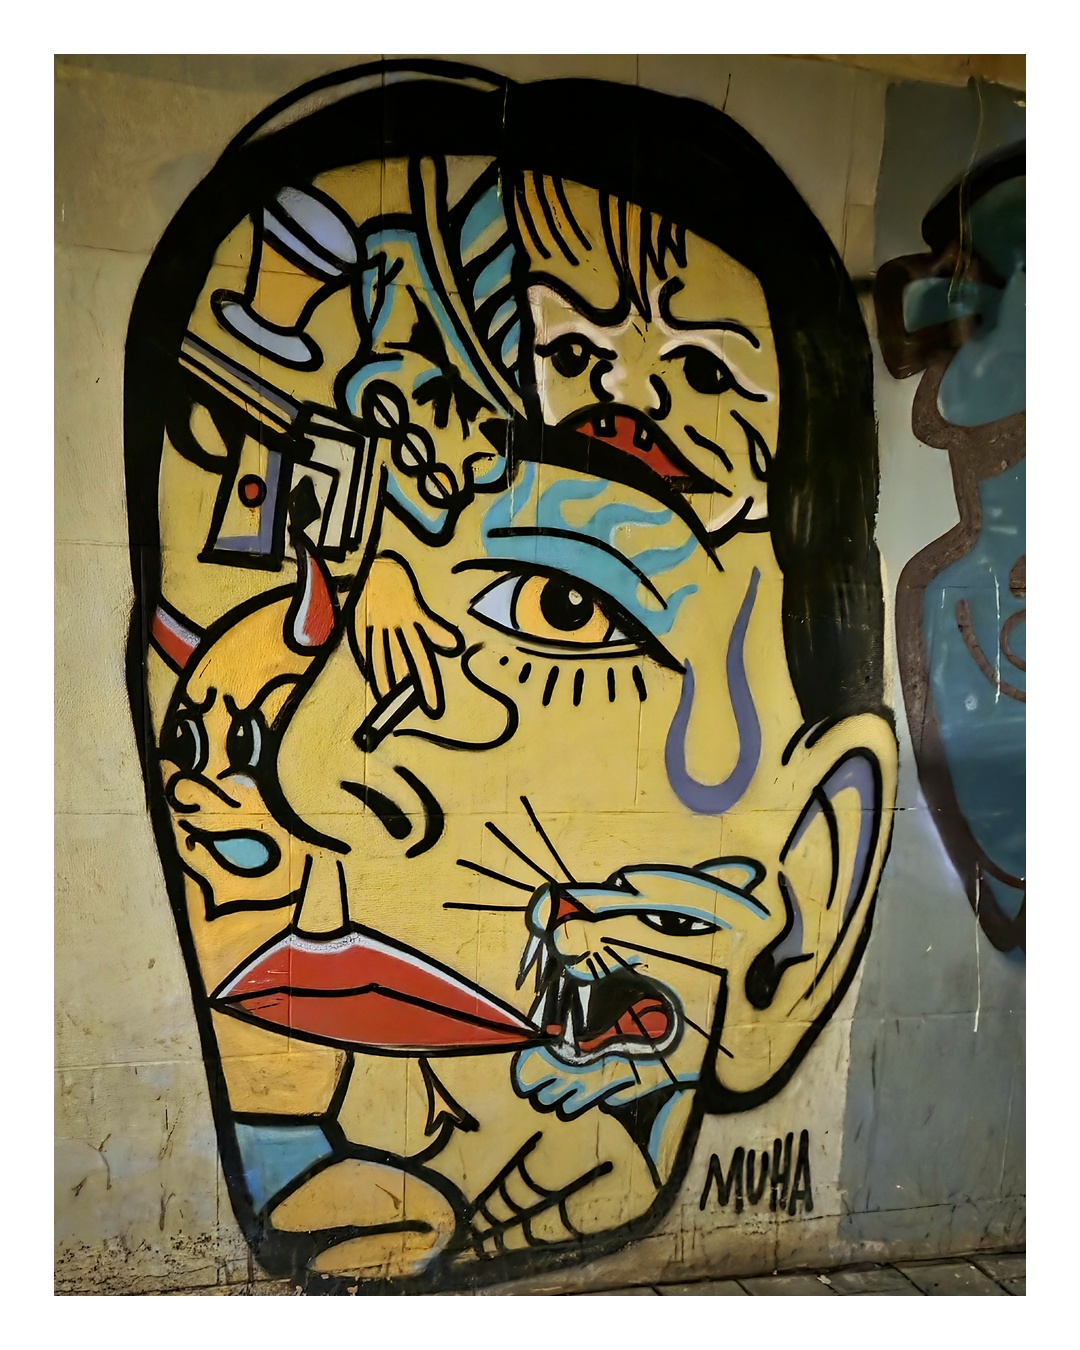
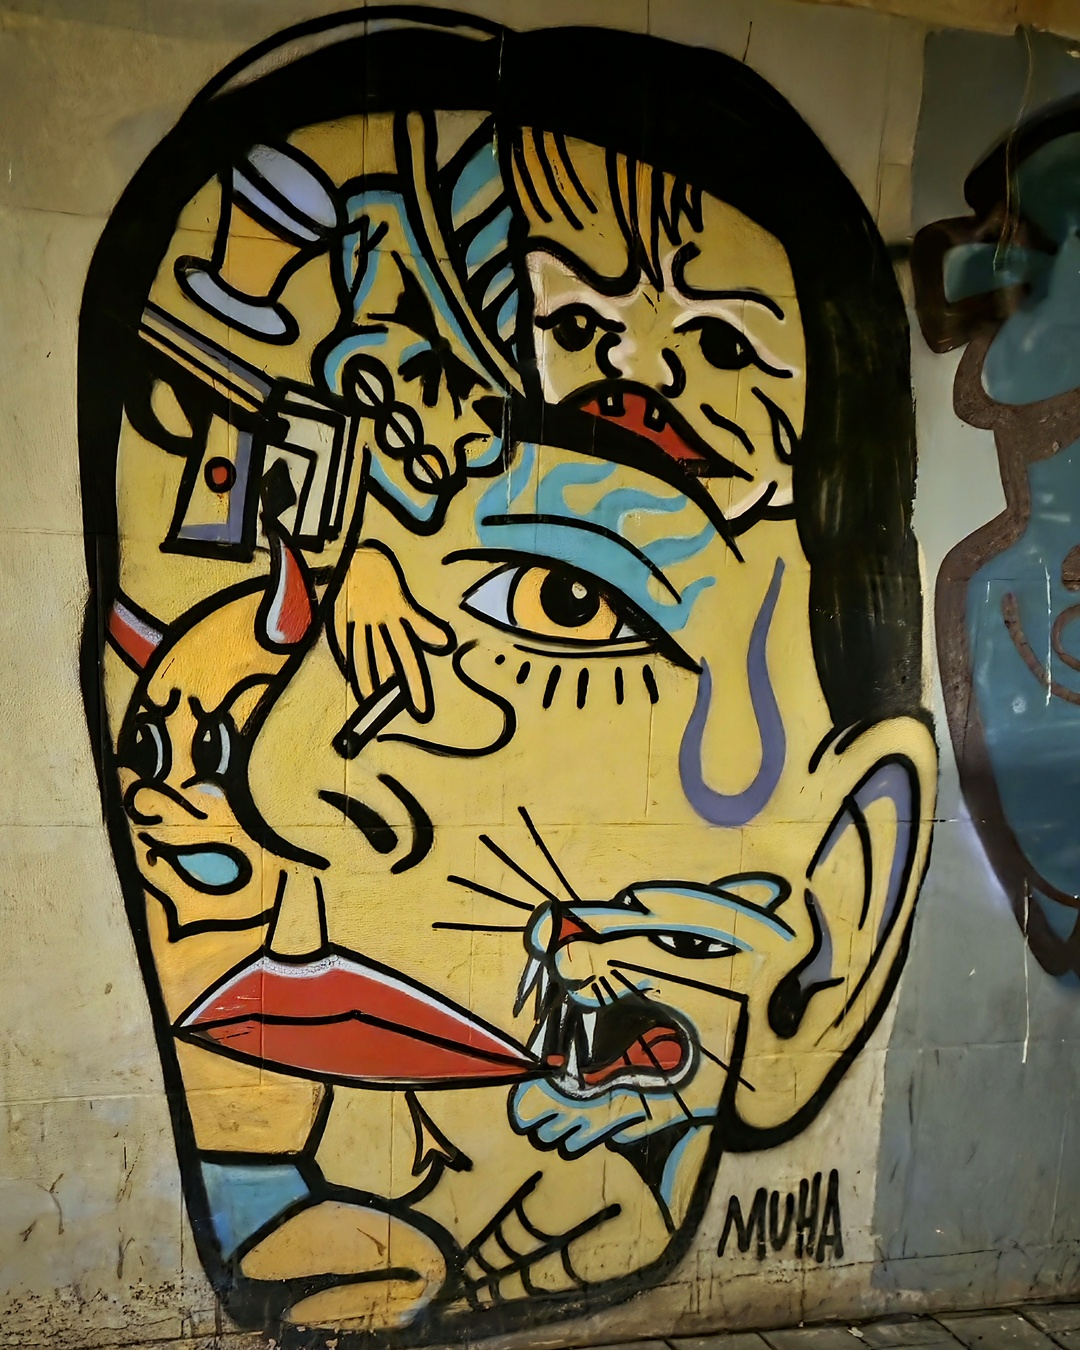
Switch to full-bleed 4:5 (no white frame); regenerate scheduled slides; add cheesecake carousel

diff --git a/scripts/frame.py b/scripts/frame.py
@@ -1,5 +1,21 @@
-import sys
+"""Prepare a photo for an @oraykin Instagram post.
+
+Default (house style since 16.10.2026): full-bleed 4:5, 1080x1350, no frame.
+The image is center-cropped to 4:5 and scaled to fill the canvas. Enhancement
+is gentle: autocontrast, slight saturation, slight contrast, unsharp mask.
+
+Usage:
+    python3 scripts/frame.py <src> <dst>              # full-bleed 4:5
+    python3 scripts/frame.py <src> <dst> --frame 54   # old style: white frame
+
+--frame N keeps the pre-16.10 look (image fit inside a white border of N px)
+for regenerating old material. No EXIF is written, so location metadata is
+dropped.
+"""
+import argparse
 from PIL import Image, ImageEnhance, ImageOps, ImageFilter
+
+
 def enhance(im):
     im = ImageOps.exif_transpose(im).convert('RGB')
     im = ImageOps.autocontrast(im, cutoff=0.5)
@@ -7,13 +23,48 @@ def enhance(im):
     im = ImageEnhance.Contrast(im).enhance(1.05)
     im = im.filter(ImageFilter.UnsharpMask(radius=1.5, percent=60, threshold=3))
     return im
-def frame(src, dst, W=1080, H=1350, pad=54):
+
+
+def crop_to_ratio(im, W, H):
+    """Center-crop so the image has exactly the W:H aspect ratio."""
+    if im.width * H > im.height * W:          # too wide
+        w = round(im.height * W / H)
+        x0 = (im.width - w) // 2
+        return im.crop((x0, 0, x0 + w, im.height))
+    if im.width * H < im.height * W:          # too tall
+        h = round(im.width * H / W)
+        y0 = (im.height - h) // 2
+        return im.crop((0, y0, im.width, y0 + h))
+    return im
+
+
+def fullbleed(src, dst, W=1080, H=1350):
+    """Full-bleed 4:5: center crop to W:H and scale to fill. No border."""
     im = enhance(Image.open(src))
-    box_w, box_h = W-2*pad, H-2*pad
-    r = min(box_w/im.width, box_h/im.height)
-    im = im.resize((round(im.width*r), round(im.height*r)), Image.LANCZOS)
-    c = Image.new('RGB', (W,H), 'white')
-    c.paste(im, ((W-im.width)//2, (H-im.height)//2))
+    im = crop_to_ratio(im, W, H).resize((W, H), Image.LANCZOS)
+    im.save(dst, quality=95)
+
+
+def frame(src, dst, W=1080, H=1350, pad=54):
+    """Legacy style: fit the whole image inside a white frame of `pad` px."""
+    im = enhance(Image.open(src))
+    box_w, box_h = W - 2 * pad, H - 2 * pad
+    r = min(box_w / im.width, box_h / im.height)
+    im = im.resize((round(im.width * r), round(im.height * r)), Image.LANCZOS)
+    c = Image.new('RGB', (W, H), 'white')
+    c.paste(im, ((W - im.width) // 2, (H - im.height) // 2))
     c.save(dst, quality=95)
-if __name__=='__main__':
-    frame(sys.argv[1], sys.argv[2])
+
+
+if __name__ == '__main__':
+    ap = argparse.ArgumentParser(description=__doc__,
+                                 formatter_class=argparse.RawDescriptionHelpFormatter)
+    ap.add_argument('src')
+    ap.add_argument('dst')
+    ap.add_argument('--frame', type=int, default=0, metavar='PX',
+                    help='white frame width in px (legacy look); 0 = full-bleed')
+    a = ap.parse_args()
+    if a.frame > 0:
+        frame(a.src, a.dst, pad=a.frame)
+    else:
+        fullbleed(a.src, a.dst)

diff --git a/CLAUDE.md b/CLAUDE.md
@@ -33,7 +33,7 @@
 | סטורי | סנו הכלב, רגעים | 3 עד 4 בשבוע |
 
 ## סגנון חזותי
-פוסט: 4:5, 1080×1350, מסגרת לבנה 54px, שיפור עדין (`scripts/frame.py`). סטורי: 9:16, 1080×1920. פרטים אצל `graphic-designer`.
+פוסט: 4:5, 1080×1350, תמונה מלאה בלי מסגרת (החלטת אורן 16.10.2026; הגריד מציג 3:4 והמסגרת יצאה לא אחידה), שיפור עדין (`scripts/frame.py`; `--frame 54` רק לחומר ישן). סטורי: 9:16, 1080×1920. פרטים אצל `graphic-designer`.
 
 ## טכני
 - Metricool: מותג `7295636`, אינסטגרם מחובר כ-@oraykin (חיבור "via Instagram", בלי פייסבוק). אזור זמן `Asia/Jerusalem`. פרסום ב-10:00 (נתוני Metricool, נבדק 7.10).

diff --git a/docs/STATUS.md b/docs/STATUS.md
@@ -48,6 +48,7 @@
 - **חומר מקומי** (`incoming/`, לא בריפו): morning, morning13, mirage, desk (רקעי Malon), graffiti, reel_morning. השיפוץ: `~/Documents/Projects/home-renovation`.
 
 ## החלטות קבועות
+- **סגנון חזותי (16.10):** בלי מסגרת לבנה. 4:5 מלא. G, E, K10 עד K14 עובדו מחדש; K01 עד K05, D, R, N, C הישנים עדיין עם מסגרת (לעבד מחדש רק אם עולים שוב).
 - ביו: "אוכל טוב, פרחים במרפסת ומקומות ששווה לנסוע אליהם" / "Good food, balcony flowers & places worth the trip 🍽🌸✈".
 - Highlights: הבית, טיולים, אוכל, פרחים, עם שערי hl_*. 
 - אלעד: רק בלי פנים, בלי קרדיט. Reel השיפוץ בוטל כרגע.
